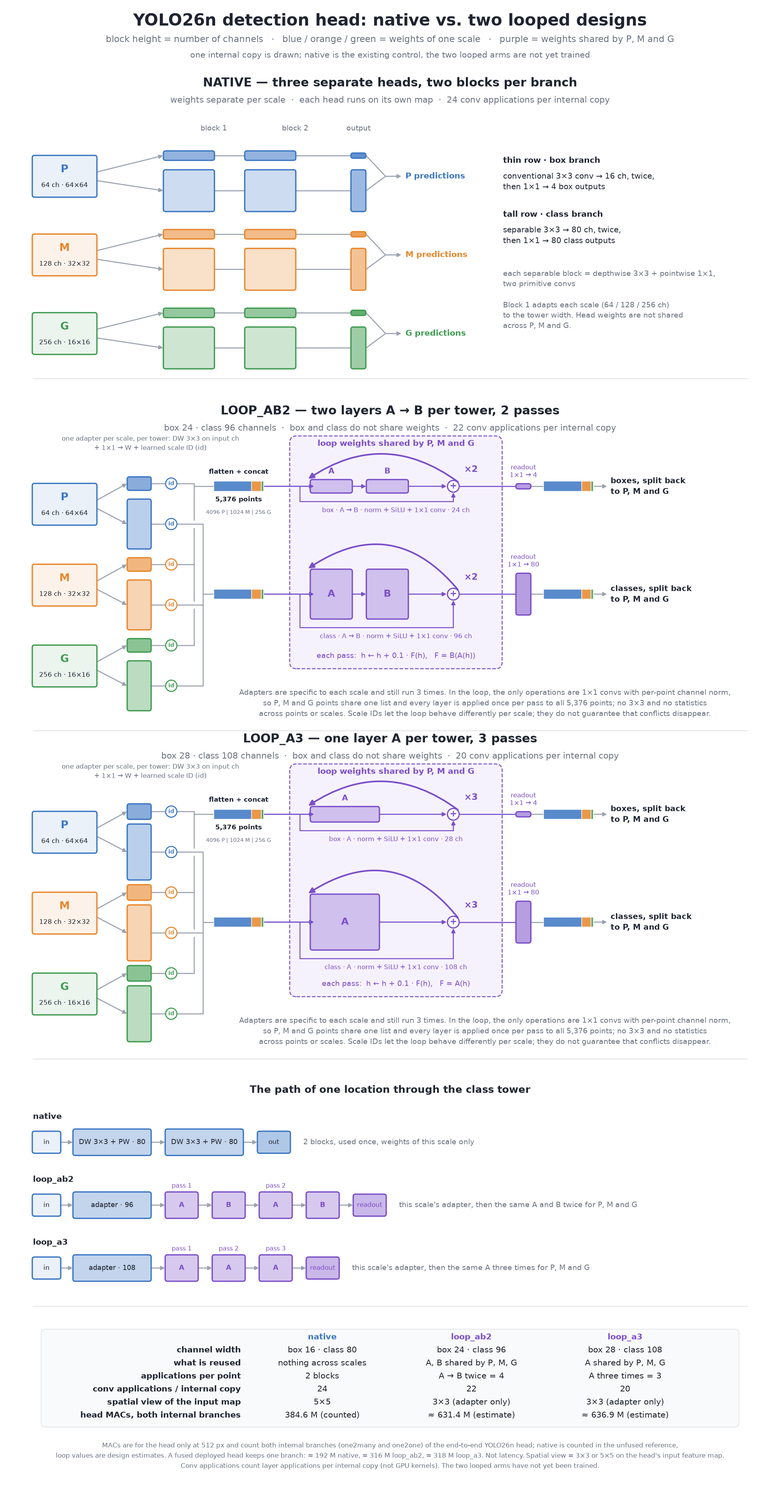
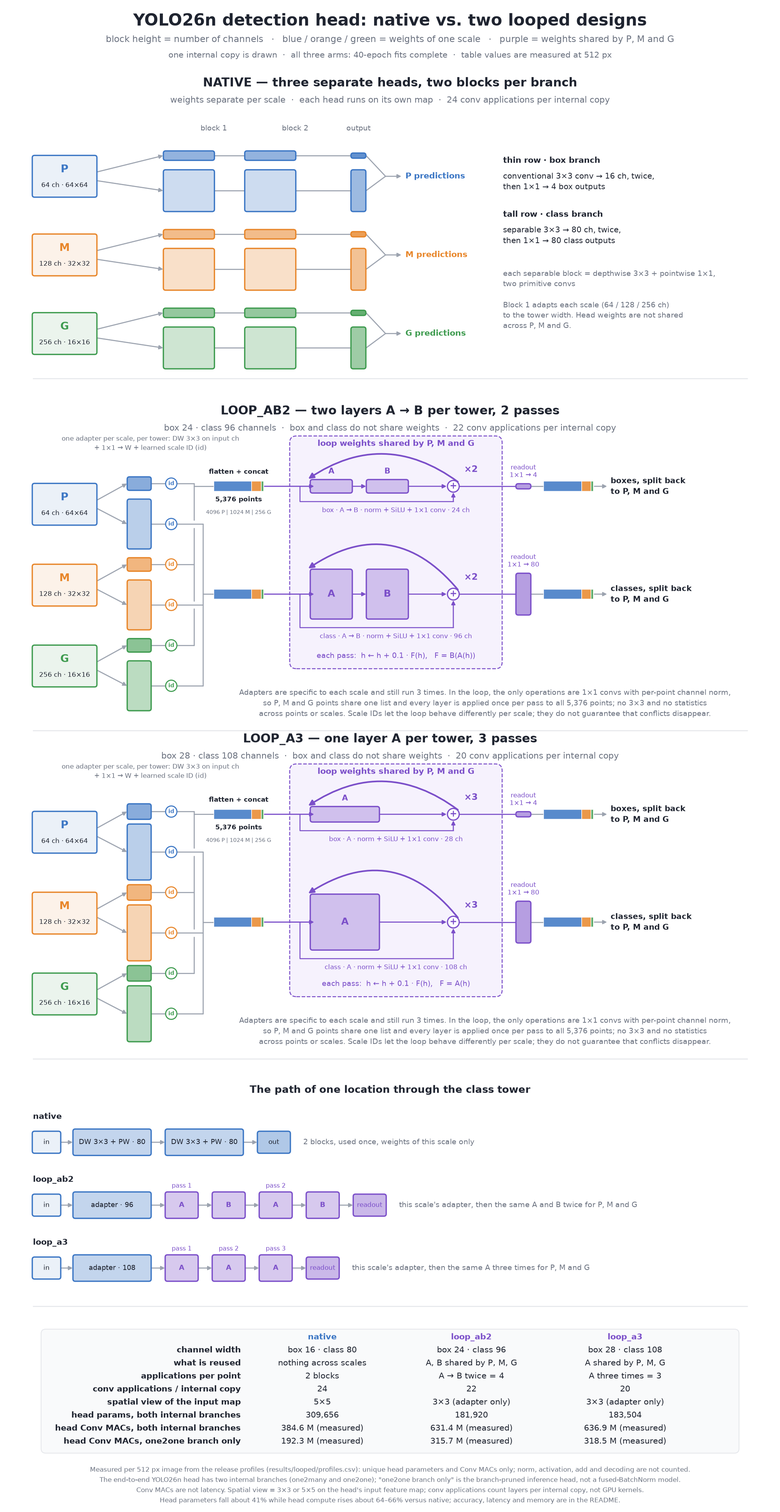
docs(study): publish the measured negative looped-head result

Changed region(s): [[0.0618, 0.9339, 0.8654, 0.9961]]

diff --git a/scripts/draw_looped_head.py b/scripts/draw_looped_head.py
@@ -2,7 +2,9 @@
 """Draw assets/looped-head.png: the three studied heads, stacked: native, loop_ab2 and loop_a3.
 
 Block height is proportional to channel width; blue/orange/green mark weights of one scale and
-purple marks weights shared by P, M and G. Looped-head compute is a design estimate, not a measurement.
+purple marks weights shared by P, M and G. The numbers in the table are measured values from the
+v0.2.0 release profiles (results/looped/profiles.csv, seed 11, batch 1, 512 px); all three arms were trained
+(15 closed 40-epoch fits). Only Conv MACs are counted; norm, activation, add and decoding are not.
 """
 from pathlib import Path
 import matplotlib
@@ -64,7 +66,7 @@ ax.text(85, 330.5, "YOLO26n detection head: native vs. two looped designs", ha="
         fontsize=20, fontweight="bold", color=INK)
 ax.text(85, 326.4, "block height = number of channels   ·   blue / orange / green = weights of one scale   ·   "
         "purple = weights shared by P, M and G", ha="center", va="center", fontsize=11, color=GREY)
-ax.text(85, 322.9, "one internal copy is drawn; native is the existing control, the two looped arms are not yet trained", ha="center",
+ax.text(85, 322.9, "one internal copy is drawn  ·  all three arms: 40-epoch fits complete  ·  table values are measured at 512 px", ha="center",
         va="center", fontsize=10, color=GREY)
 
 
@@ -238,9 +240,12 @@ rows_txt = [("", "native", "loop_ab2", "loop_a3"),
             ("applications per point", "2 blocks", "A → B twice = 4", "A three times = 3"),
             ("conv applications / internal copy", "24", "22", "20"),
             ("spatial view of the input map", "5×5", "3×3 (adapter only)", "3×3 (adapter only)"),
-            ("head MACs, both internal branches", "384.6 M (counted)", "≈ 631.4 M (estimate)",
-             "≈ 636.9 M (estimate)")]
-ax.add_patch(FancyBboxPatch((8, 17.8), 154, 21.4, boxstyle="round,pad=0.2,rounding_size=1",
+            ("head params, both internal branches", "309,656", "181,920", "183,504"),
+            ("head Conv MACs, both internal branches", "384.6 M (measured)", "631.4 M (measured)",
+             "636.9 M (measured)"),
+            ("head Conv MACs, one2one branch only", "192.3 M (measured)", "315.7 M (measured)",
+             "318.5 M (measured)")]
+ax.add_patch(FancyBboxPatch((8, 12.0), 154, 27.2, boxstyle="round,pad=0.2,rounding_size=1",
                             fc="#F9FAFB", ec=RULE, lw=1, zorder=.5))
 for i, row in enumerate(rows_txt):
     yy = 37.6 - i * 2.9
@@ -248,12 +253,14 @@ for i, row in enumerate(rows_txt):
     for xc, txt, col in zip((70, 103, 137), row[1:], (SCALE["P"], SHARED, SHARED)):
         ax.text(xc, yy, txt, ha="center", va="center", fontsize=10, color=col if i == 0 else INK,
                 fontweight="bold" if i == 0 else "normal")
-ax.text(85, 14.6, "MACs are for the head only at 512 px and count both internal branches (one2many and one2one) of the end-to-end "
-        "YOLO26n head; native is counted in the unfused reference,\nloop values are design estimates. "
-        "A fused deployed head keeps one branch: ≈ 192 M native, ≈ 316 M loop_ab2, ≈ 318 M loop_a3. Not latency. "
-        "Spatial view = 3×3 or 5×5 on the head's input feature map.\nConv applications count layer applications per internal copy "
-        "(not GPU kernels). The two looped arms have not yet been trained.", ha="center", va="top", fontsize=8.4, color=GREY,
-        linespacing=1.5)
+ax.text(85, 9.2, "Measured per 512 px image from the release profiles (results/looped/profiles.csv): unique head parameters and Conv MACs only; "
+        "norm, activation, add and decoding are not counted.\n"
+        "The end-to-end YOLO26n head has two internal branches (one2many and one2one); \"one2one branch only\" is the branch-pruned "
+        "inference head, not a fused-BatchNorm model.\n"
+        "Conv MACs are not latency. Spatial view = 3×3 or 5×5 on the head's input feature map; conv applications count layers per internal copy, "
+        "not GPU kernels.\n"
+        "Head parameters fall about 41% while head compute rises about 64–66% versus native; accuracy, latency and memory are in the README.",
+        ha="center", va="top", fontsize=8.4, color=GREY, linespacing=1.5)
 
 OUT.parent.mkdir(parents=True, exist_ok=True)
 fig.savefig(OUT, bbox_inches="tight", facecolor="white")

diff --git a/README.md b/README.md
@@ -1,58 +1,211 @@
-# One looped head for every scale
+# One looped head for every scale: a negative result
+
+**Result.** On the frozen YOLO26n trunk used here, a single looped detection head shared by the P, M and G scales was **less accurate than YOLO26n's three separate native heads**. Both looped designs lost about 0.6 to 0.7 AP points on COCO val2017, and each lost in all five paired seeds. We did not retune the looped heads to try to close the gap, and this study does not identify why they lost.
+
+| COCO val2017, AP50:95 ×100, mean ± sample SD over 5 seeds | `native` | `loop_ab2` | `loop_a3` |
+|---|---|---|---|
+| **AP50:95** | **14.333 ± 0.110** | 13.744 ± 0.162 | 13.600 ± 0.072 |
+| Paired difference vs `native` | n/a | −0.589 pp | −0.733 pp |
+| 95% CI of that difference (marginal) | n/a | [−0.730, −0.448] | [−0.913, −0.553] |
+| Holm-adjusted p (two primary tests) | n/a | 0.00063 | 0.00063 |
+| Seeds where the loop was worse than native | n/a | 5 of 5 | 5 of 5 |
+| Head parameters (both internal branches) | 309,656 | 181,920 | 183,504 |
+| Head Conv MACs (both internal branches, 512 px) | 384.6 M | 631.4 M | 636.9 M |
+
+The loops use about 41% fewer head parameters but about 64–66% more head compute than `native`, and they were less accurate. At batch 32 the full network was also about 39–43% slower (branch-pruned one-to-one deployment profile, on both GPUs we measured). The goal was accuracy and cross-scale generalization, not parameter reduction, so the smaller parameter count is not a win here. Accuracy was the primary question, and the answer was no.
 
 <p align="center">
-  <img src="assets/looped-head.png" width="100%" alt="Three stacked diagrams of the YOLO26n detection head, one internal copy each. Top, native: separate P, M and G heads, each with two blocks per box and class branch. Middle, loop_ab2: a separable 3×3 adapter and learned scale ID per scale and tower, then all 5,376 points in one list through a shared two-layer A→B loop applied twice. Bottom, loop_a3: the same adapters, then a shared single-layer A loop applied three times. Box and class towers stay separate and a shared 1×1 readout splits the points back to P, M and G. Below, the path of one location through the class tower and a table of widths and head MACs.">
+  <img src="assets/looped-head.png" width="100%" alt="Three stacked diagrams of the YOLO26n detection head, one internal copy each. Top, native: separate P, M and G heads, each with two blocks per box and class branch. Middle, loop_ab2: a separable 3×3 adapter and learned scale ID per scale and tower, then all 5,376 points in one list through a shared two-layer A→B loop applied twice. Bottom, loop_a3: the same adapters, then a shared single-layer A loop applied three times. Box and class towers stay separate and a shared 1×1 readout splits the points back to P, M and G. Below, the path of one location through the class tower and a table of widths, measured head parameters and measured head Conv MACs.">
 </p>
 
-**Question.** Can one looped detection head, shared by the P, M and G scales, replace YOLO26n's three separate heads? By reusing what it learns about objects at one size for the others, could it detect more accurately for a moderate increase in compute?
+## Question
 
-> **Status: implementation in progress.** The two new looped arms have not been trained yet. Native counts come from the existing control; looped-head counts are estimates, not new accuracy or speed results.
-
-## The idea
-
-- **Today (`native`)**, the fine, intermediate and coarse feature maps P, M and G have separate head weights. They support detection at different object sizes, but are not rigid small/medium/large bins.
-- **Proposed**, box and class keep separate towers, as in the native head, but **each tower is shared by all three scales and looped**. Box and class do not share weights with each other.
-- Per scale and per tower, an **adapter** (a depthwise 3×3 on the input channels plus a 1×1 projection to the tower width) brings the map to one width, and a **learned scale ID** is added. The three adapters of a tower are independent, specific to each scale, and still run three times, once per scale.
-- The points of the three maps are flattened and concatenated into **one list of 5,376 points** (4,096 P · 1,024 M · 256 G). The loop uses only 1×1 convs with per-point channel norm and SiLU, so P, M and G points go through it together. Each pass applies the shared layers once to the whole list with a residual update `h ← h + 0.1·F(h)`. A shared 1×1 readout produces the box and class outputs, which are split back to the native P, M and G geometry.
-- **The goal is accuracy and cross-scale learning at moderate extra compute, not fewer weights.** The scale ID lets the shared loop behave differently when scale matters, but it does not guarantee that conflicts between scales disappear.
+Can one looped detection head, shared by the P, M and G scales, replace YOLO26n's three separate heads? By reusing what it learns about objects at one size for the others, could it detect more accurately for a moderate increase in compute?
 
 ## The three arms
+
+- **`native`**: the three separate head weights of YOLO26n, one per scale (P, M and G). The scales are not rigid small/medium/large bins.
+- **`loop_ab2`**: one shared head. Box and class keep separate towers (they do not share weights with each other), and each tower is shared by P, M and G. Box width 24, class width 96. The loop applies two shared layers `A → B` twice.
+- **`loop_a3`**: the same structure with box width 28, class width 108, and one shared layer `A` applied three times.
+
+In the looped arms, per scale and per tower, an **adapter** (a depthwise 3×3 on the input channels plus a 1×1 projection to the tower width) brings the map to one width, and a **learned scale ID** is added. The three adapters of a tower are independent, specific to each scale, and still run three times, once per scale. The points of the three maps are flattened and concatenated into **one list of 5,376 points** (4,096 P · 1,024 M · 256 G, at 512 px). The loop uses only 1×1 convs with per-point channel norm and SiLU, so P, M and G points go through it together. There is no 3×3 inside the loop and no spatial mosaic or fusion. Each pass applies the shared layers once to the whole list with a residual update `h ← h + 0.1·F(h)`, where `F = B(A(h))` for `loop_ab2` and `F = A(h)` for `loop_a3`. A shared 1×1 readout, initialized with the native per-scale priors, produces the box and class outputs, which are split back to the native P, M and G geometry. Both the one-to-many and one-to-one internal branches are new in each looped arm.
 
 | | `native` | `loop_ab2` | `loop_a3` |
 |---|---|---|---|
 | Heads | 3, one per scale | 1, shared by P, M and G | 1, shared by P, M and G |
 | Box / class | separate | separate | separate |
 | Width | box 16 · class 80 | box 24 · class 96 | box 28 · class 108 |
-| Reused layers | none across scales | two layers A → B per tower, shared by P, M and G | one layer A per tower, shared by P, M and G |
+| Reused layers | none across scales | two layers A → B per tower | one layer A per tower |
 | Passes | 2 blocks, once | 2 passes of `F = B(A(h))` | 3 passes of `F = A(h)` |
 | Applications per point | 2 blocks | 4 | 3 |
 | Conv applications per internal copy | 24 | 22 | 20 |
 | Spatial view of the input feature map | 5×5 | 3×3 (adapter only) | 3×3 (adapter only) |
-| Head MACs, both internal branches, 512 px | 384.6 M (counted) | ≈ 631.4 M (estimate) | ≈ 636.9 M (estimate) |
 
-The native head takes P, M and G with 64, 128 and 256 channels at 64×64, 32×32 and 16×16 for a 512 px image. Its box branch is two conventional 3×3 convs at 16 channels, then a 1×1 to 4 outputs. Its class branch is two separable 3×3 blocks at 80 channels (each a depthwise 3×3 plus a pointwise 1×1, so two primitive convs), then a 1×1 to 80 outputs, with separate weights per scale.
+**Why this is not a clean test of weight sharing.** Each looped arm changes several things at once: sharing across scales, tower width, the adapters, per-point normalization, and the receptive field (5×5 native, 3×3 in the adapter only). The result tells us that these bundled looped designs were worse than native in this setup. It does not isolate weight sharing as the cause, and we do not claim gradient conflicts between scales as an observed cause.
 
-**How to read the numbers.**
-- YOLO26n is end-to-end and has two internal head branches (one2many and one2one). The table counts both; the figure draws one. A fused deployed head keeps one branch: about 192 M MACs native, 316 M `loop_ab2` and 318 M `loop_a3`.
-- "Conv applications" counts layer applications per internal copy, not GPU kernels or latency. No speed claim is made.
-- "Spatial view" is the 3×3 or 5×5 neighborhood on the head's own input feature map, not on the whole image. The only 3×3 in the looped arms is the adapter.
-- Parameter counts are not predicted here; they will be reported from the actual implementation.
+## Accuracy
 
-**Why box and class stay separate.** Locating an object and naming it can pull a shared layer in different directions. [YOLOX](https://arxiv.org/abs/2107.08430) found that separating them speeds up training and improves AP; in an end-to-end YOLO, like YOLO26n, a shared box-and-class head lost 4.2 AP versus 0.8 for separate ones. Merging them here would also blur what the experiment measures.
+Five head seeds (11, 22, 33, 44, 55), COCO val2017 (all 5,000 images), scored after all 15 selections were frozen. Values are AP ×100.
 
-**Why two looped arms.** `loop_ab2` and `loop_a3` differ in how the same compute is spent: two distinct layers applied twice, or one layer applied three times. Their head MACs are within about 0.9% of each other. A separate CIFAR benchmark with spatial 3×3 layers and GroupNorm found AB2 ahead of A3 by 2.256 pp over five seeds at matched MACs ([benchmark](https://github.com/Hmenez3s/cnn-weight-sharing-generalization/tree/53d8caf/benchmarks/conv-granularity-20261017)). That is motivation only: it uses a different task, spatial layers and normalization, and says nothing about the YOLO outcome.
+**Primary metric, AP50:95 per seed**
 
-## Planned comparison
+| Seed | `native` | `loop_ab2` | `loop_a3` |
+|---|---|---|---|
+| 11 | 14.406 | 13.805 | 13.479 |
+| 22 | 14.491 | 13.917 | 13.646 |
+| 33 | 14.243 | 13.679 | 13.633 |
+| 44 | 14.260 | 13.497 | 13.653 |
+| 55 | 14.266 | 13.820 | 13.587 |
+| **Mean ± sample SD** | **14.333 ± 0.110** | **13.744 ± 0.162** | **13.600 ± 0.072** |
 
-- **`loop_ab2` vs `loop_a3`:** does depth through distinct layers beat repeating one layer at about the same cost?
-- **Each loop arm vs `native`:** does a shared looped head beat the original three heads, and is the extra compute worth it?
+**Paired differences vs `native`** (same seed, percentage points of AP50:95)
 
-All arms use the same frozen YOLO26n trunk with features cached at 512 px, 40 epochs, batch size 32, development-split evaluation every 5 epochs for checkpoint selection, and five paired seeds. The `native` control is reused when its recipe is unchanged. AP, latency and memory are reported for every arm.
+| Seed | `loop_ab2` − `native` | `loop_a3` − `native` |
+|---|---|---|
+| 11 | −0.601 | −0.927 |
+| 22 | −0.574 | −0.845 |
+| 33 | −0.563 | −0.610 |
+| 44 | −0.762 | −0.607 |
+| 55 | −0.446 | −0.679 |
+| **Mean** | **−0.589** | **−0.733** |
+| 95% t interval, df = 4 | [−0.730, −0.448] | [−0.913, −0.553] |
+| Unadjusted two-sided p | 0.000316 | 0.000349 |
+| Holm-adjusted p | 0.000632 | 0.000632 |
 
-**Evaluation caveat.** COCO val2017 was already used in the earlier study in this repository. It is a reused evaluation benchmark here, not an untouched held-out confirmation.
+The Holm family contains only these two primary contrasts. The confidence intervals are marginal: they are not adjusted for multiplicity. Both loops were negative in all five seeds.
 
-## Repository
+**Secondary, outside the primary family:** `loop_a3` − `loop_ab2` = −0.144 pp, 95% CI [−0.390, +0.102], unadjusted p = 0.179. The interval includes zero, which does not establish a difference or equivalence between the two loops. This study does **not** show that `loop_ab2` beats `loop_a3` (or the reverse).
 
-The code in `src/` and release [v0.1.0](https://github.com/Hmenez3s/detection-head-weight-sharing/releases/tag/v0.1.0) come from an earlier experiment. It tested a different, narrower change — repeating one layer inside each scale's head — and does not address this question.
+**Mean AP by object size and threshold** (×100, 5 seeds; every per-seed value is in [`scores.csv`](results/looped/scores.csv))
 
-The figure is generated by `scripts/draw_looped_head.py`. Code is licensed under AGPL-3.0; see [LICENSE](LICENSE) and [NOTICE](NOTICE.md).
+| Metric | `native` | `loop_ab2` | `loop_a3` |
+|---|---|---|---|
+| AP50:95 | 14.333 | 13.744 | 13.600 |
+| AP50 | 22.932 | 22.137 | 21.849 |
+| AP75 | 14.960 | 14.407 | 14.268 |
+| AP small | 5.070 | 4.368 | 4.453 |
+| AP medium | 14.796 | 13.977 | 13.920 |
+| AP large | 21.878 | 21.115 | 20.839 |
+
+Both loops are lower on every metric in the table, including small objects. We did not run a separate analysis of whether the gap differs by object size.
+
+<p align="center">
+  <img src="results/looped/paired_deltas.svg" width="85%" alt="Paired AP50:95 differences in percentage points, five seeds per contrast, with the mean and a marginal 95% interval. The two primary contrasts, loop_ab2 minus native and loop_a3 minus native, lie entirely below zero. The secondary contrast, loop_a3 minus loop_ab2, is mixed: four seeds are below zero, one is above, and its interval crosses zero.">
+</p>
+
+**Paired differences.** Each dot is one seed. The black marks are the mean and its 95% t interval (df = 4). The intervals are marginal, not adjusted for multiplicity. The two primary contrasts against `native` have all five seeds and their whole intervals below zero. The third contrast, `loop_a3` − `loop_ab2`, is secondary and outside the Holm family. It is mixed: four seeds are negative, one (seed 44) is positive, and the interval [−0.390, +0.102] crosses zero, so it shows no clear difference between the two loops. Data: [`paired_deltas.csv`](results/looped/paired_deltas.csv), [`summary.json`](results/looped/summary.json).
+
+<p align="center">
+  <img src="results/looped/curves.svg" width="100%" alt="Three panels, each with one line per arm (native, loop_ab2, loop_a3), averaged over five seeds across 40 epochs. Left: training loss, which is higher for both loops than for native throughout. Middle: development-split AP50:95 at every 5th epoch, lower for both loops than for native at every evaluation. Right: AP50:95 on the 1,000-image training probe, also lower for both loops.">
+</p>
+
+**Training curves.** Mean over the five seeds for each arm: training loss per epoch (left), development-split AP50:95 at each 5-epoch evaluation (middle), and AP50:95 on the 1,000-image training probe at the same evaluations (right). The probe is drawn from the training split, so it is not held-out accuracy. Native's development AP flattens near epochs 35–40, while the two loops are still rising at the last evaluation; we did not train longer, so we cannot say what extra epochs would do. The per-seed probe-minus-development gap is in the CSV, not in the figure. Data: [`curves.csv`](results/looped/curves.csv).
+
+## Cost, speed and memory
+
+These come from fresh, matched profiles (36 in total, all completed) on two GPUs: seed 11 on an RTX 5070 Ti and seed 22 on an RTX 3060, using the fixed checkpoints of those seeds. They are one measurement set, not five independent timing replications, and not a ranking of the hardware.
+
+**Structure** (measured per 512 px image; Conv multiply-accumulates only, so normalization, activation, add and decoding are not counted; "head" is the head alone)
+
+| | `native` | `loop_ab2` | `loop_a3` |
+|---|---|---|---|
+| Unique head parameters, both internal branches | 309,656 | 181,920 | 183,504 |
+| Head Conv MACs, both internal branches | 384.606 M | 631.357 M | 636.920 M |
+| Full detector Conv MACs, both internal branches | 1,906.680 M | 2,153.431 M | 2,158.993 M |
+| Unique head parameters, one-to-one branch only | 154,828 | 90,960 | 91,752 |
+| Head Conv MACs, one-to-one branch only | 192.303 M | 315.679 M | 318.460 M |
+| Full detector Conv MACs, one-to-one branch only | 1,714.377 M | 1,837.752 M | 1,840.534 M |
+
+"One-to-one branch only" is a separate deployment-profiling policy: a copy of the model with the one-to-many branch pruned (`fused_one2one` in the profile files). It is not batch-norm fusion of the model. The COCO val2017 predictions were **not** made with this pruned copy: they load the retained dual-branch checkpoint and use its one-to-one outputs. The "both internal branches" rows describe the retained, trained model. The two loops are within about 0.9% of each other in head MACs, but not exactly equal. Head parameters fall about 41% from native while head Conv MACs rise about 64–66%. Conv MACs are a count of operations, not a latency prediction.
+
+**Full-network latency** (milliseconds, branch-pruned one-to-one deployment-profiling policy; FP32, zero-valued 512×512 NCHW input, CUDA-synchronized, 5 warm-up and 20 timed repetitions; image decoding and preprocessing are excluded)
+
+| GPU · batch | `native` | `loop_ab2` | `loop_a3` |
+|---|---|---|---|
+| RTX 5070 Ti · B1 | 16.445 | 17.207 | 16.477 |
+| RTX 5070 Ti · B32 | 17.976 | 25.790 | 25.493 |
+| RTX 3060 · B1 | 16.623 | 16.476 | 16.396 |
+| RTX 3060 · B32 | 48.888 | 70.030 | 68.160 |
+
+At batch 1 the differences are small and mixed in sign, within what we would expect from launch overhead, noise and bandwidth effects; we draw no speed conclusion from them. At batch 32 both loops were slower than native on both GPUs, by about 39–43% in this measurement. [`profiles.csv`](results/looped/profiles.csv) has the means for every profile (retained dual-branch and branch-pruned, full network and head only), plus storage, Conv MACs, and allocated and reserved memory. It has means only: the raw 20-sample timing vectors are in the individual `profile.json` files inside `evidence.tar.gz` (listed in `evidence/manifest.json`).
+
+**Training memory** (batch 32; one warm-up plus one measured step of the selected weights, with cached head inputs, head loss and optimizer; peak **allocated** MiB)
+
+| GPU | `native` | `loop_ab2` | `loop_a3` |
+|---|---|---|---|
+| RTX 5070 Ti | 1,432.188 | 2,484.133 | 2,233.706 |
+| RTX 3060 | 1,431.039 | 2,491.732 | 2,242.058 |
+
+This is a single step, not the peak of the full 40-epoch run, and it excludes trunk back-propagation (the trunk is frozen). Allocated and reserved memory are different quantities; `profiles.csv` has both, and inference memory is a separate scope. Portable checkpoint bytes and executable post-prune storage are also different, so we do not combine them.
+
+## Method
+
+- **One inherited trunk.** A single frozen YOLO26n trunk is shared by all 15 fits. It was trained **from scratch** on the same 11,629 COCO train images for 80 epochs (source seed 11, variant U), with no source head weights reused. It is not an official pretrained model, and the 5 seeds are 5 independent **heads** on one trunk, not 5 independent backbones ([trunk receipt](models/trunk-receipt.json)).
+- **Head learning on frozen features.** Only the head is trained, on cached trunk features (512 px, FP32 → FP16 → FP32 quantization boundary). This is not end-to-end YOLO training.
+- **Data.** Reduced train split of 11,629 images, a 2,000-image development split used only for checkpoint selection, and a 1,000-image train probe.
+- **Training.** 40 epochs, batch size 32, development AP evaluated every 5 epochs, best development checkpoint selected per fit.
+- **Matrix.** `native`, `loop_ab2`, `loop_a3` × seeds 11, 22, 33, 44, 55. That is 15 closed 40-epoch fits: 10 new fits and 5 reused native controls from the earlier study (same recipe, trunk and caches).
[1 lines of base64/hex data omitted]
+- **Full protocol and API:** [docs/looped-method.md](docs/looped-method.md). Frozen recipe: [configs/looped.frozen.json](configs/looped.frozen.json).
+
+## Limitations
+
+- **Reused benchmark.** COCO val2017, and the native controls, were already used in the earlier study in this repository. This is a reused benchmark, not an independent untouched confirmation.
+- **One trunk, five seeds.** All comparisons are conditional on one inherited trunk, with n = 5 paired seeds. Uncertainty is substantial and the confidence intervals are marginal.
+- **Bundled changes.** The looped arms differ from native in width, adapters, normalization and receptive field as well as in weight sharing. We cannot attribute the loss to sharing alone, and we do not offer a cause.
+- **No retuning.** Hyperparameters and schedule are the frozen native recipe. Different widths, passes, learning rates or end-to-end training could behave differently. We did not try them, and this result says nothing about them.
+- **Scope.** One detector (YOLO26n), one dataset (COCO), one resolution (512 px), and frozen features. We make no claim that cross-scale head sharing fails in general, or works elsewhere.
+- **Cost measurements** come from two GPUs, with representative seeds 11 and 22 only and a single set of repetitions.
+
+## Reproduce and download
+
+The COCO dataset is not in this repository. Release [v0.2.0](https://github.com/Hmenez3s/detection-head-weight-sharing/releases/tag/v0.2.0) contains the checkpoints and the closed evidence (predictions, score bindings and checkpoint data):
+
+| File | Contents |
+|---|---|
+| [`models.tar.gz`](https://github.com/Hmenez3s/detection-head-weight-sharing/releases/download/v0.2.0/models.tar.gz) | all 15 selected head checkpoints with their configs, `model-index.json`, and the common trunk once (`models/trunk.pt`) |
+| [`evidence.tar.gz`](https://github.com/Hmenez3s/detection-head-weight-sharing/releases/download/v0.2.0/evidence.tar.gz) | closed predictions, score bindings, and the evidence manifest |
+| [`budget.json`](https://github.com/Hmenez3s/detection-head-weight-sharing/releases/download/v0.2.0/budget.json) | compute-budget record |
+| [`SHA256SUMS`](https://github.com/Hmenez3s/detection-head-weight-sharing/releases/download/v0.2.0/SHA256SUMS) | checksums of the three files above |
+
+Download all three assets and `SHA256SUMS` into one directory, then verify before extracting:
+
+```sh
+base=https://github.com/Hmenez3s/detection-head-weight-sharing/releases/download/v0.2.0
+for f in models.tar.gz evidence.tar.gz budget.json SHA256SUMS; do curl -LO "$base/$f"; done
+sha256sum -c SHA256SUMS
+tar xzf models.tar.gz && tar xzf evidence.tar.gz
+```
+
+**Replay the analysis** (reads the bundled evidence; needs no dataset and no official annotation file). Use Python 3.12 and the pinned dependencies:
+
+```sh
+pip install -e .
+python -m head_sharing.analyze --input evidence/manifest.json --output replay-results
+```
+
+`replay-results` must not exist yet. The tables above are the committed copy of that output in [`results/looped/`](results/looped/). A complete re-score from raw predictions uses the public `python -m head_sharing.evaluate score` CLI and the official `instances_val2017.json` ([COCO terms](https://cocodataset.org/#termsofuse)). Re-measuring cost needs matching GPU hardware and pinned versions; latency and memory will differ elsewhere.
+
+**Use a checkpoint** (CPU; the heads need the common trunk):
+
+```python
+from head_sharing.checkpoint import load_checkpoint
+
+model = load_checkpoint(
+    "models/heads/11/loop_ab2.pt",
+    "models/heads/11/loop_ab2.json",
+    trunk_artifact="models/trunk.pt",
+    map_location="cpu",
+)
+```
+
+## Provenance
+
+- **Compute.** The study ran on two local GPUs under a cumulative conservative allocator that charges every reservation in full, including failed attempts and pilots, with no refunds. Charges at the end of the study were 100,075 s (27.80 h) on the RTX 3060 and 104,305 s (28.97 h) on the RTX 5070 Ti, each within the 48 h per-device limit ([`budget.json`](https://github.com/Hmenez3s/detection-head-weight-sharing/releases/download/v0.2.0/budget.json)). During main training the sampled physical free VRAM never fell below 50.8% of the card, and at most three main fits ran concurrently (9 CPU cores).
+- **One resumed fit.** The `loop_a3` seed 22 fit resumed from epoch 6 after a bookkeeping failure, with the full RNG, optimizer and history state restored. It was not retuned and given no extra epochs.
+- **Code versions.** Fits were run over several commits. A bounded batch-reader change (`91209cf`) preserved bytes, losses, gradients and SGD updates in an equivalence check, and a later change (`8610c0f`) altered only runtime wait and watchdog behavior. The commit each fit actually ran from is recorded in the model index and freeze receipt, so not every fit came from the latest code.
+- **Licenses.** Code is AGPL-3.0, see [LICENSE](LICENSE) and [NOTICE](NOTICE.md) for attribution of Ultralytics YOLO26 and for COCO annotation and photograph terms. Dataset access is not a grant of rights to the photographs.
+
+## Earlier experiment
+
+Release [v0.1.0](https://github.com/Hmenez3s/detection-head-weight-sharing/releases/tag/v0.1.0) is an earlier experiment in this repository. It tested a different, narrower change, repeating one layer inside each scale's head (intra-scale units), not sharing across scales, so it does not address the question here. Its results remain at the top level of [`results/`](results/); this study's results are in [`results/looped/`](results/looped/). The figure is generated by [`scripts/draw_looped_head.py`](scripts/draw_looped_head.py).
